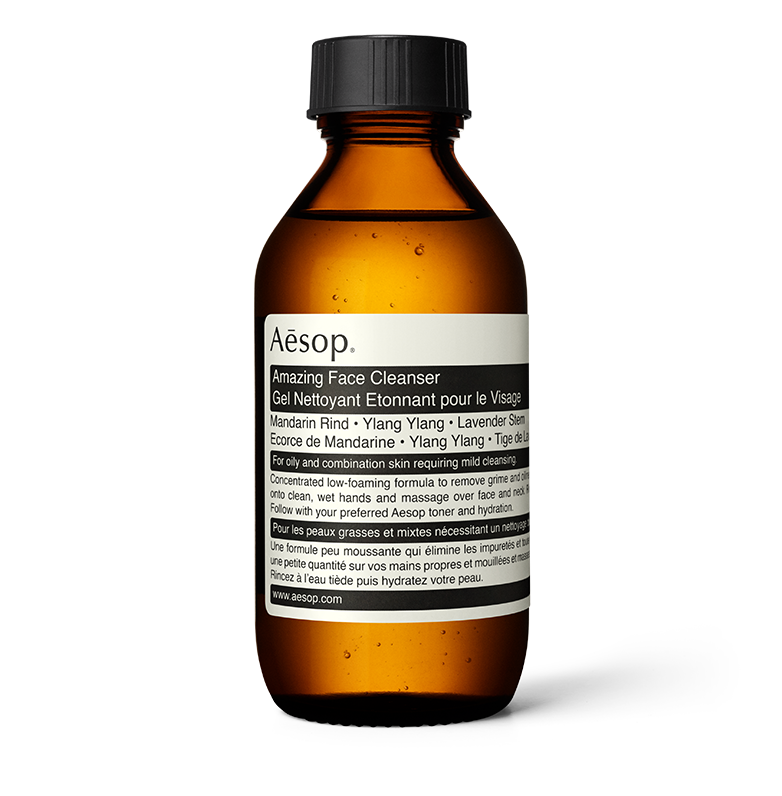
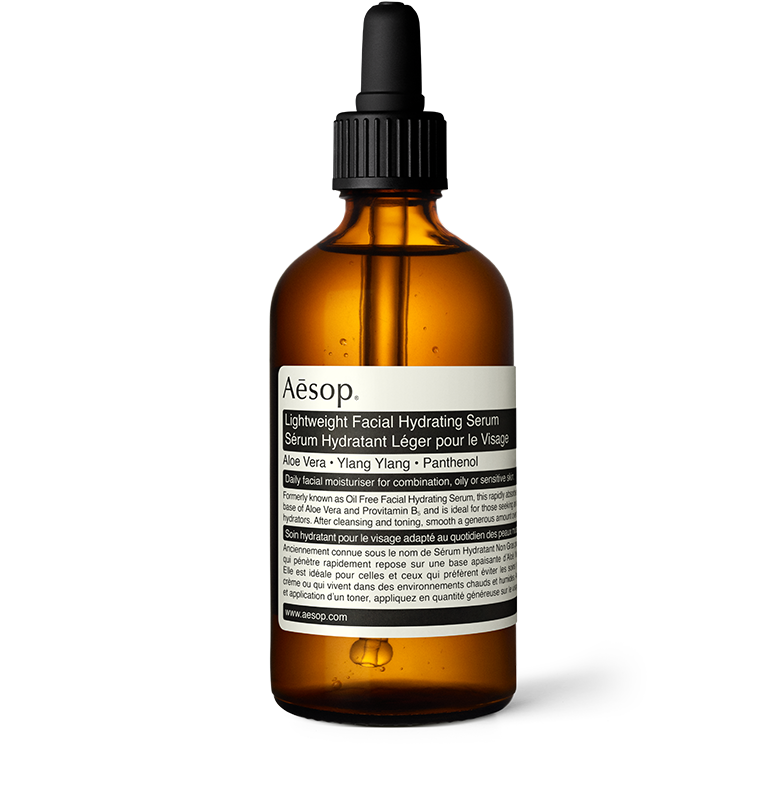
set up products and finalized

Changed region(s): [[0.3069, 0.0, 0.7059, 0.9347]]

diff --git a/src/html/index.html b/src/html/index.html
@@ -4,8 +4,8 @@
 <div id="container" class="container">
   <div class="products">
     {% for product in products %}
-      <div class="product p-{{ loop.index }} {% if loop.index === 1 %}-active{% endif %}">
-        <img src="/images/p-{{ loop.index }}.png">
+      <div class="product {% if loop.index === 1 %}-active{% endif %}">
+        <img src="/images/{{ product.imageFile }}">
         <p>{{ loop.index }} {{ product.name }}</p>
       </div>
     {% endfor %}
@@ -14,14 +14,14 @@
   <div class="description">
     <div class="controls" data-module="carousel">
       <button class="control" data-increment="-1">Previous</button>
-      <button class="control" data-increment="1">Next</button>
+      <button class="control -next" data-increment="1">Next</button>
     </div>
 
-    <h1>Shop</h1>
+    <h1 class="title">Shop</h1>
 
     <div id="product-details">
       <h2 class="product-name">{{ products[0].name }}</h2>
-      <p>Normal to dry skin</p>
+      <p class="product-subtitle">Normal to dry skin</p>
       <p class="product-price">{{ products[0].price }}</p>
     </div>
   </div>

diff --git a/src/stylesheets/components/_description.scss b/src/stylesheets/components/_description.scss
@@ -8,30 +8,35 @@
   }
 }
 
-#product-details {
-  font-size: 30px;
-  font-weight: bold;
-  text-align: center;
+.description {
+  padding: 6.3rem 25px;
 }
 
 .product-name,
 .product-price {
-  margin: 30px 0;
-}
+  font-weight: 600;
 
-.product-name,
-.product-price {
   .-enter & {
     animation: enterText ($transition-dur / 2 + 0.3) both;
   }
 
   .-exit & {
-    opacity: 0.2;
+    opacity: 0;
     transform: translateY($position2-text);
     transition: ($transition-dur / 2);
   }
 }
 
+.product-name {
+  font-size: 1.2rem;
+  margin-top: 2rem;
+}
+
 .product-price {
   animation-delay: 0.5s !important;
+}
+
+.product-subtitle {
+  @include emphasis-text;
+  margin: 2rem 0;
 }

diff --git a/src/html/layouts/application.html b/src/html/layouts/application.html
@@ -4,6 +4,7 @@
     <meta charset="utf-8">
     <title>carousel02 - Chloe Hwang 2019</title>
     <link rel="stylesheet" href="stylesheets/app.css">
+    <link href="https://fonts.googleapis.com/css?family=Poppins:300,600" rel="stylesheet">
     <meta name="viewport" content="width=device-width, initial-scale=1">
   </head>
   <body>

diff --git a/src/stylesheets/components/_layout.scss b/src/stylesheets/components/_layout.scss
@@ -1,6 +1,10 @@
 .container {
+  -moz-osx-font-smoothing: grayscale;
+  -webkit-font-smoothing: antialiased;
   display: flex;
+  font-smoothing: antialiased;
   min-height: 100vh;
+  text-align: center;
 }
 
 .products,

diff --git a/src/stylesheets/app.scss b/src/stylesheets/app.scss
@@ -6,6 +6,7 @@ $position2-text: calc(-15px * var(--dir));
 
 
 @import "base/reset";
+@import "base/mixins";
 @import "base/typography";
 
 @import "components/layout";

diff --git a/src/stylesheets/base/_typography.scss b/src/stylesheets/base/_typography.scss
@@ -1,3 +1,7 @@
 body {
-  font-family: sans-serif;
+  font-family: 'Poppins', sans-serif;
+}
+
+.title {
+  @include emphasis-text;
 }

diff --git a/src/stylesheets/base/_mixins.scss b/src/stylesheets/base/_mixins.scss
@@ -1,0 +1,5 @@
+@mixin emphasis-text {
+  font-size: 12px;
+  letter-spacing: 0.1em;
+  text-transform: uppercase;
+}

diff --git a/src/stylesheets/components/_products.scss b/src/stylesheets/components/_products.scss
@@ -19,7 +19,7 @@
   opacity: 0;
 
   img {
-    width: 200px;
+    width: 400px;
   }
 
   &.-active,
